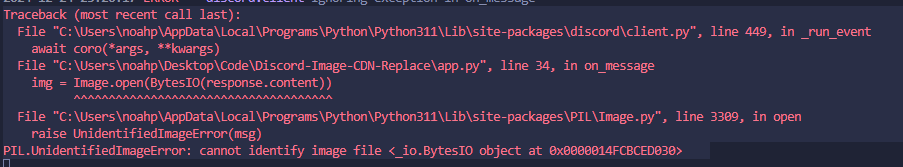
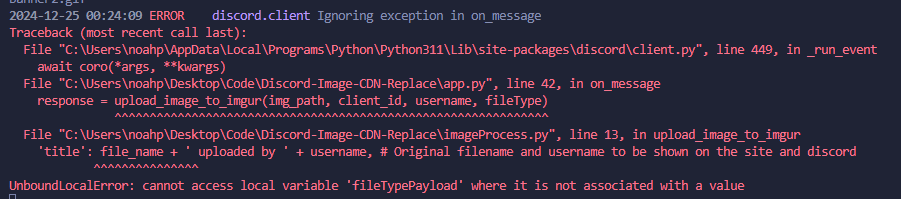
day 2
fix/update (read readme)

Changed region(s): [[0.0, 0.0, 0.9945, 0.5988], [0.0, 0.6287, 0.9634, 0.988]]

diff --git a/app.py b/app.py
@@ -26,18 +26,20 @@ async def on_message(message):
         for attachment in message.attachments:
             print(attachment.filename) # Print check to see its printing all the attachments
 
+            # Get the image from the attachment URL
             response = requests.get(attachment.url)
-            # Generate a timestamped file name
-            timestamp = datetime.now().strftime("%Y%m%d%H%M%S")
-            file_name = f"{timestamp}.png"
-            # Opens image and saves to "imgs" directory with custom timestamped file name
-            img = Image.open(BytesIO(response.content)) # NEED TO FIX THIS SO IT PROCESS MULTIPLE IMAGES TO IMGUR
-            # fix for line above
-            img_path = os.path.join("imgs", file_name)
+           
+            # Opens image and saves to "imgs" directory with file name
+            img = Image.open(BytesIO(response.content))
+            img_path = os.path.join("imgs", attachment.filename)
             img.save(img_path)
 
+            fileType = img_path.split('.')[-1]
+            print(fileType)
+
+            # Upload the image to imgur by calling the function from imageProcess.py
             client_id = os.getenv("IMGUR_CLIENT_ID")
-            response = upload_image_to_imgur(img_path, client_id, attachment.filename, username)
+            response = upload_image_to_imgur(img_path, client_id, username, fileType)
             print(response)
             
             # Send the link of the same attachment to the same channel where the user posted it in
@@ -49,5 +51,4 @@ async def on_message(message):
         # Delete the user's message
         await message.delete()
             
-
 bot.run(os.getenv("TOKEN"))

diff --git a/imageProcess.py b/imageProcess.py
@@ -1,13 +1,21 @@
 import requests
 
-def upload_image_to_imgur(image_path, client_id, title, username):
+def upload_image_to_imgur(image_path, client_id, username, fileType):
+    if fileType in ['jpg', 'png', 'jpeg']:
+        fileTypePayload = "image"
+    elif fileType in ['gif', 'mp4', 'mov', 'avi', 'webm']:
+        fileTypePayload = "video"
+    
+    # Extract the file name without the path and extension
+    file_name = image_path.split('/')[-1].split('\\')[-1]
+
     url = "https://api.imgur.com/3/image"
     payload = {
-        'type': 'image',
-        'title': title + ' uploaded by ' + username, # Original filename and username to be shown on the site and discord
+        'type': fileTypePayload,
+        'title': file_name + ' uploaded by ' + username, # Original filename and username to be shown on the site and discord
     }
     files = [
-        ('image', (image_path, open(image_path, 'rb'), 'image/jpeg'))
+        ('image', (image_path, open(image_path, 'rb'), 'image/' + fileType))
     ]
     headers = {
         'Authorization': f'Client-ID {client_id}'

diff --git a/README.md b/README.md
@@ -6,7 +6,7 @@
     - Setup bot, and added feature for the bot to listen for any attachments and get the discord cdn which will be replaced. After getting the discord cdn it downloads the image to "imgs" directory. Did a little research with IMGUR API and my path for implementation using the API. Planning onto doing a little more research tomorrow and hopefully get some sort of implemenation started. Plan on setting up API account and using Postman to manage requests. Need to fix/add support for video files currently works only for images.
 
 - 12/24/2024 DAY 2
-    - Added connection between the imgur and discord. Added proper api call with client id to upload the users attachment (currently only have png, jpg, image files files working). Made changes to fix it only uploading the current images uploaded instead of all of the imgages in the imgs folder. Added auto delete feature and delete from imgs folder once file is synced to imgur. Need to add support to gifs and videos. Still determining the format the bot gives back into the chat.
+    - Added connection between the imgur and discord. Added proper api call with client id to upload the users attachment (currently only have png, jpg, image files files working). Made changes to fix it only uploading the current images uploaded instead of all of the imgages in the imgs folder. Added auto delete feature and delete from imgs folder once file is synced to imgur. Attempted to add support to videos and gifs, reframed a few parts of the code for this to work properly with synced file types etc to imgur. Need to look for a fix for the gif not properly displaying as a gif when viewing it in imgur, currently says its a gif and saves to discord as a gif pretty sure its a issue with BytesIO or Image. Also need to look into another library or replace for video to work on downloading onto os.
 
 ## SOURCES
 https://apidocs.imgur.com/#intro
